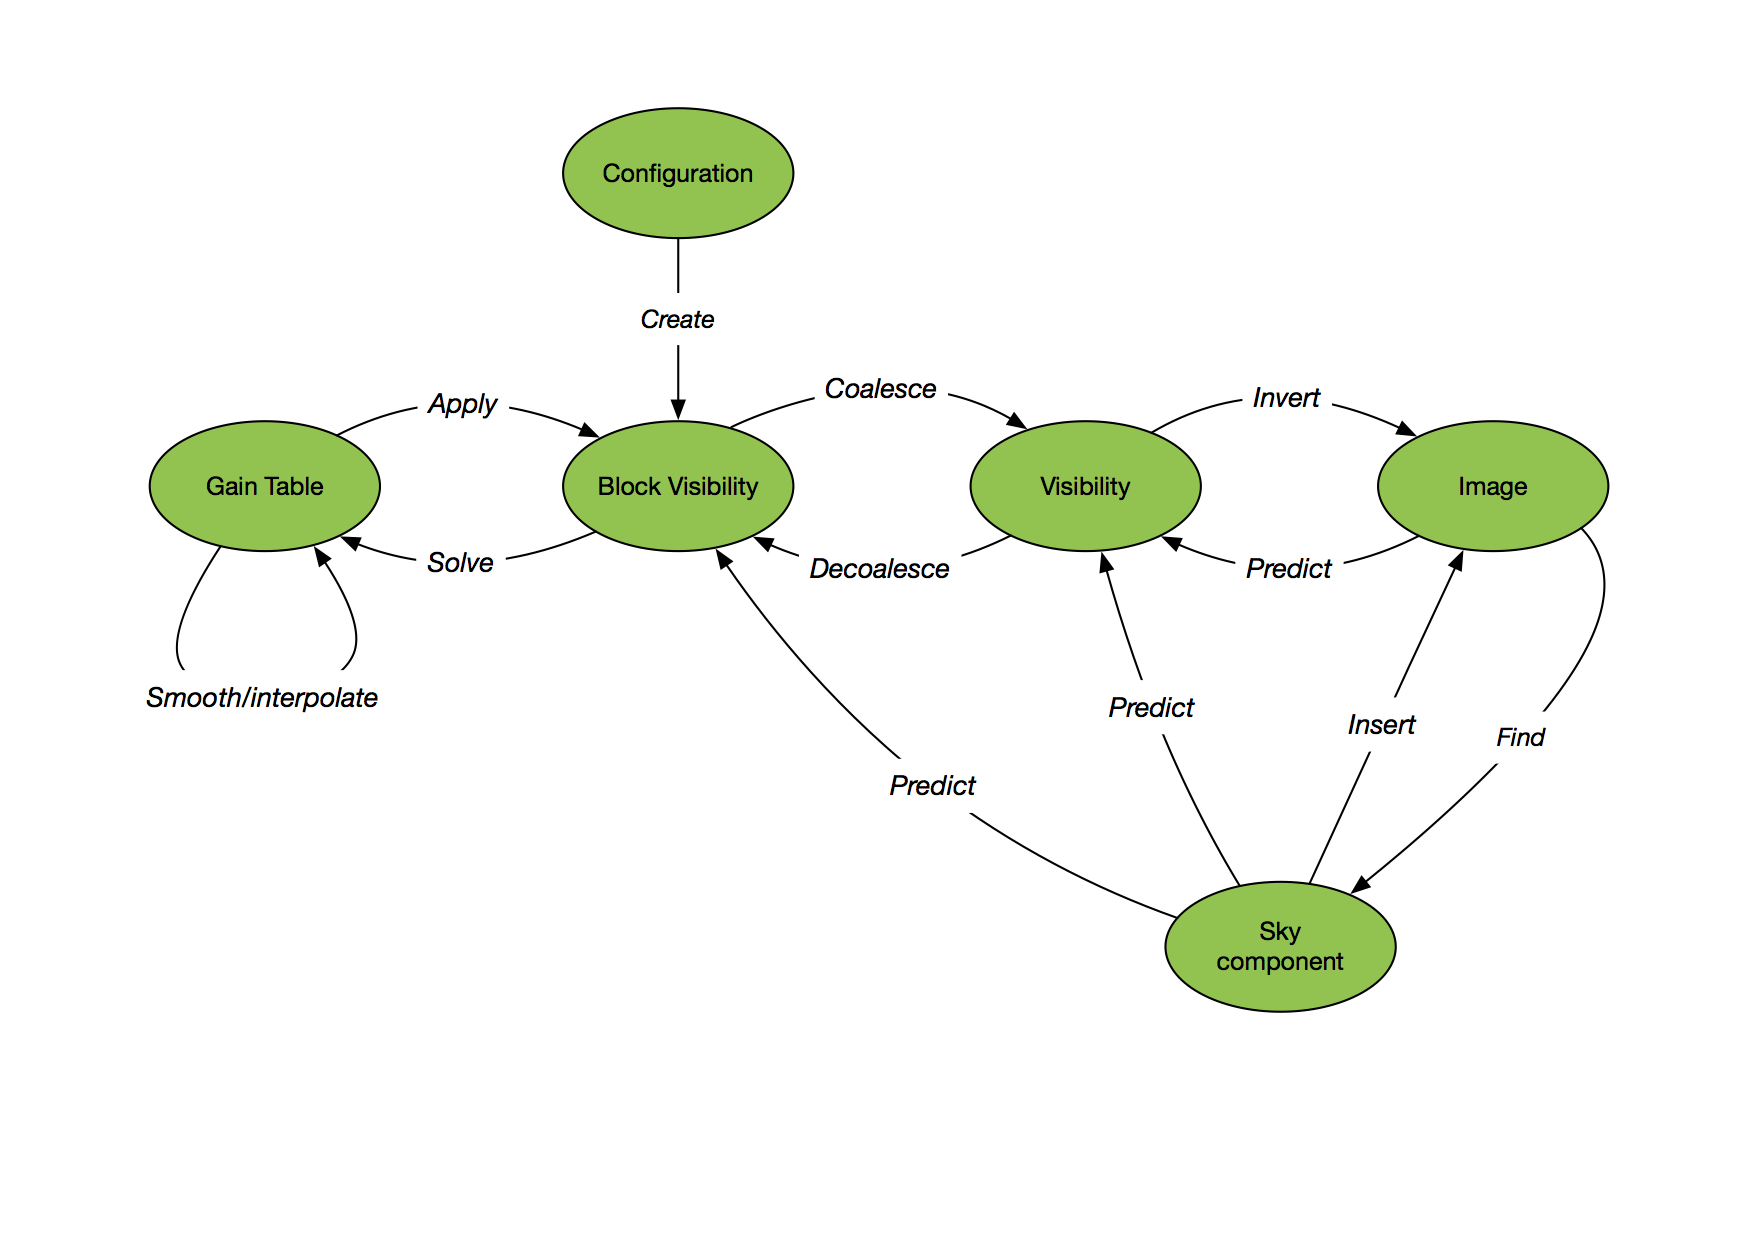
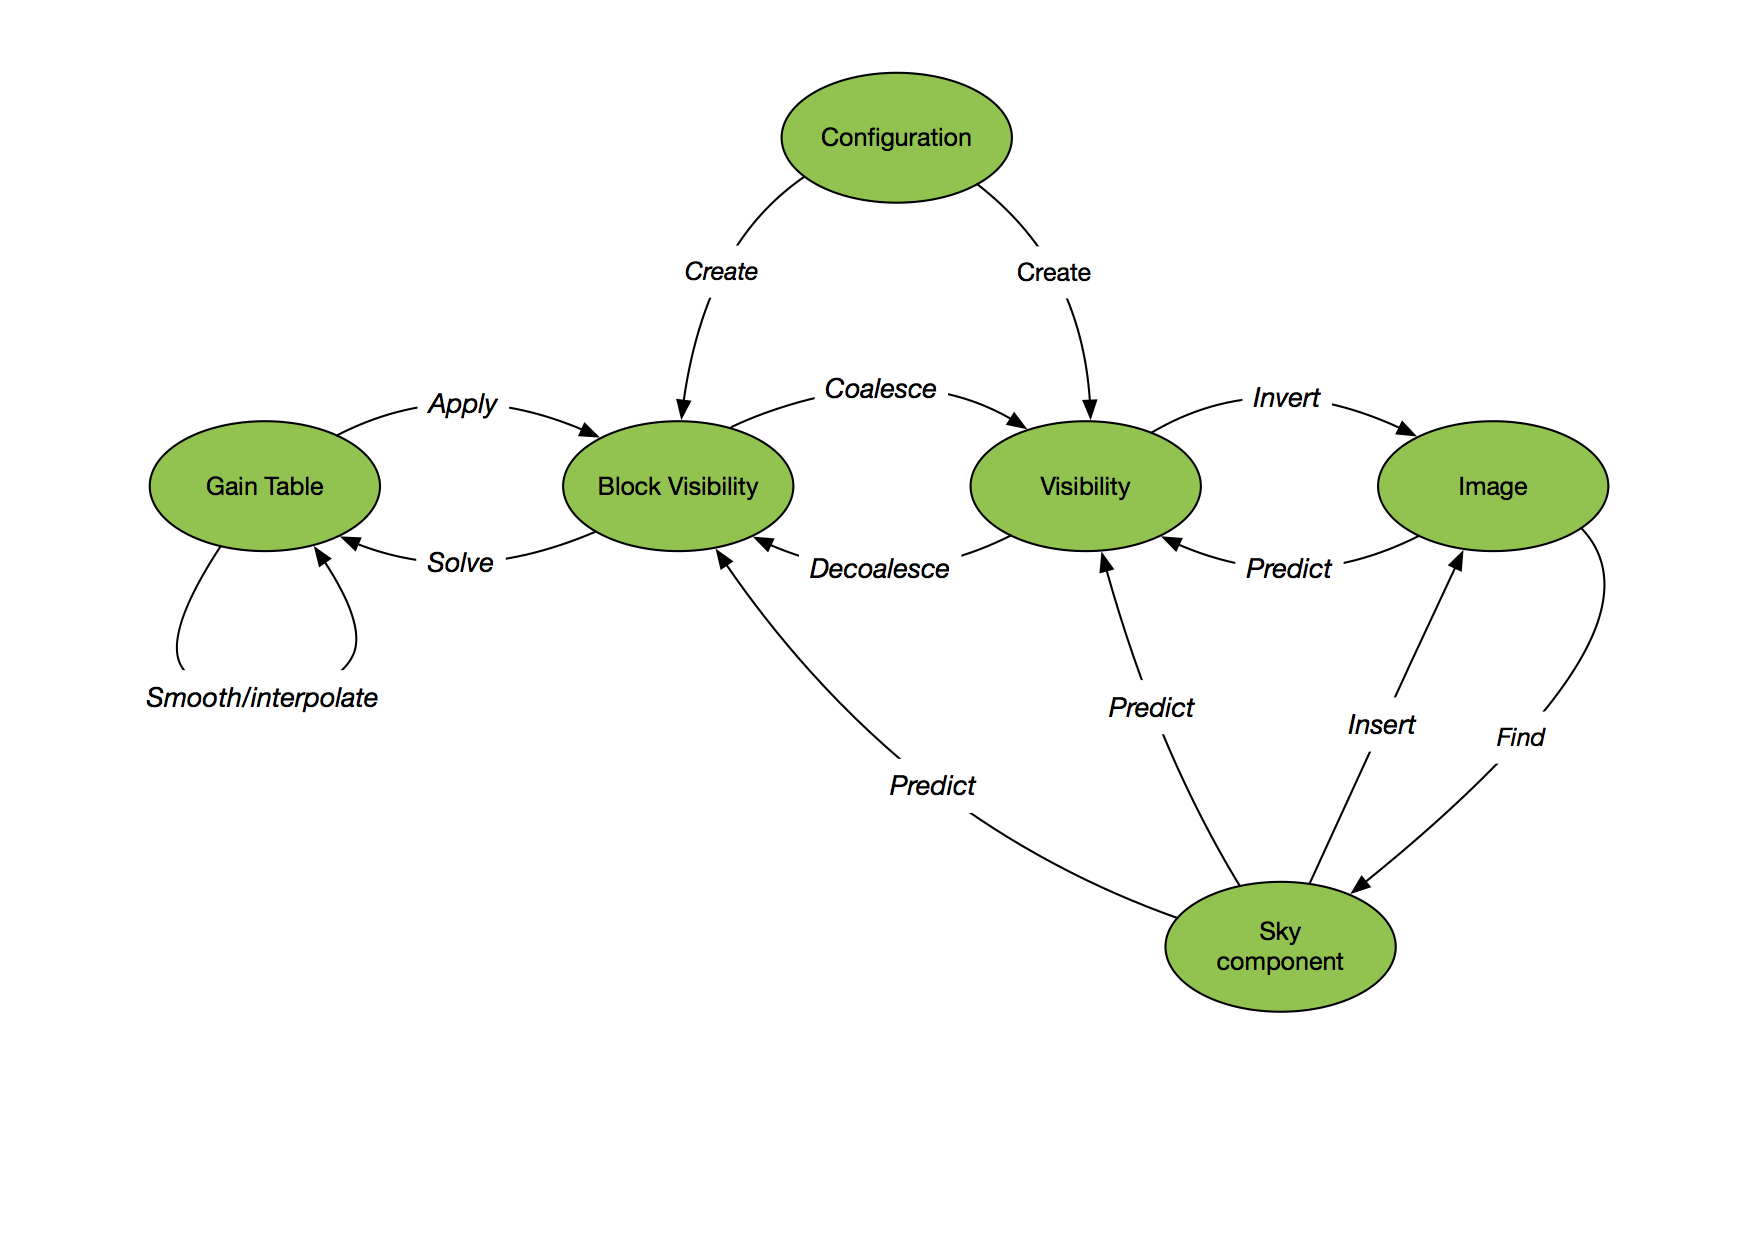
create_blockvisibility_iterator
Signature changed to align with other creates

diff --git a/tests/test_testing_support.py b/tests/test_testing_support.py
@@ -70,8 +70,8 @@ class TestTesting_Support(unittest.TestCase):
 
     def test_create_low_test_image_from_gleam(self):
         im = create_low_test_image_from_gleam(npixel=256, cellsize=0.001,
-                                              channel_bandwidth=numpy.array([1e6, 1e6, 1e6]),
-                                              frequency=numpy.array([1e8 - 1e6, 1e8, 1e8 + 1e6]),
+                                              channel_bandwidth=self.channel_bandwidth,
+                                              frequency=self.frequency,
                                               phasecentre=self.phasecentre, kind='cubic')
         assert im.data.shape[0] == 3
         assert im.data.shape[1] == 1
@@ -81,11 +81,11 @@ class TestTesting_Support(unittest.TestCase):
 
 
     def test_create_low_test_skycomponents_from_gleam(self):
-        sc = create_low_test_skycomponents_from_gleam(frequency=numpy.array([1e8 - 1e6, 1e8, 1e8 + 1e6]),
+        sc = create_low_test_skycomponents_from_gleam(frequency=self.frequency,
                                                       flux_limit=10.0, kind='cubic')
         assert len(sc) > 1
         assert sc[190].name == 'GLEAM J172031-005845'
-        self.assertAlmostEqual(sc[190].flux[0,0], 304.1335144, 7)
+        self.assertAlmostEqual(sc[190].flux[0,0], 301.4964434927922, 7)
     
     def test_create_low_test_image(self):
             im = create_low_test_image(npixel=1024, channel_bandwidth=numpy.array([1e6]),
@@ -140,8 +140,9 @@ class TestTesting_Support(unittest.TestCase):
     
     def test_create_vis_iter(self):
         vis_iter = create_blockvisibility_iterator(self.config, self.times, self.frequency,
-                                                   phasecentre=self.phasecentre, weight=1.0,
-                                                   polarisation_frame=Polarisation_Frame('stokesI'),
+                                                   channel_bandwidth=self.channel_bandwidth,
+                                                   phasecentre=self.phasecentre,
+                                                   weight=1.0, polarisation_frame=Polarisation_Frame('stokesI'),
                                                    integration_time=30.0, number_integrations=3)
         
         fullvis = None
@@ -163,6 +164,7 @@ class TestTesting_Support(unittest.TestCase):
         comp = Skycomponent(direction=self.phasecentre, frequency=self.frequency, flux=self.flux,
                             polarisation_frame=Polarisation_Frame('stokesI'))
         vis_iter = create_blockvisibility_iterator(self.config, self.times, self.frequency,
+                                                   channel_bandwidth=self.channel_bandwidth,
                                                    phasecentre=self.phasecentre, weight=1.0,
                                                    polarisation_frame=Polarisation_Frame('stokesI'),
                                                    integration_time=30.0, number_integrations=3, model=model,

diff --git a/tests/test_coalesce.py b/tests/test_coalesce.py
@@ -19,8 +19,11 @@ class TestCoalesce(unittest.TestCase):
         self.lowcore = create_named_configuration('LOWBD2-CORE')
         self.times = (numpy.pi / 43200.0) * numpy.arange(0.0, 300.0, 30.0)
         self.frequency = numpy.linspace(1.0e8, 1.1e8, 5)
+        self.channel_bandwidth = numpy.array([1e7,1e7,1e7,1e7,1e7])
         self.phasecentre = SkyCoord(ra=+180.0 * u.deg, dec=-60.0 * u.deg, frame='icrs', equinox=2000.0)
-        self.vis = create_visibility(self.lowcore, self.times, self.frequency, phasecentre=self.phasecentre, weight=1.0)
+        self.vis = create_visibility(self.lowcore, self.times, self.frequency,
+                                     channel_bandwidth=self.channel_bandwidth,
+                                     phasecentre=self.phasecentre, weight=1.0)
         # Fill in the vis values so each can be uniquely identified
         self.vis.data['vis'] = range(self.vis.nvis)
  
@@ -35,7 +38,9 @@ class TestCoalesce(unittest.TestCase):
 
     def test_coalesce_decoalesce_singletime(self):
         self.times = numpy.array([0.0])
-        self.vis = create_visibility(self.lowcore, self.times, self.frequency, phasecentre=self.phasecentre, weight=1.0)
+        self.vis = create_visibility(self.lowcore, self.times, self.frequency,
+                                     channel_bandwidth=self.channel_bandwidth,
+                                     phasecentre=self.phasecentre, weight=1.0)
         # Fill in the vis values so each can be uniquely identified
         self.vis.data['vis'] = range(self.vis.nvis)
         cvis, cindex = coalesce_visibility(self.vis, coalescence_factor=1.0)

diff --git a/tests/test_pipelines.py b/tests/test_pipelines.py
@@ -29,11 +29,11 @@ class TestPipelines(unittest.TestCase):
         self.comp = create_skycomponent(flux=self.flux, frequency=frequency, direction=self.compabsdirection)
         self.image = create_test_image(frequency=frequency, phasecentre=self.phasecentre, cellsize=0.001)
         
-        self.vis = create_blockvisibility_iterator(lowcore, times=times, freq=frequency, phasecentre=self.phasecentre,
-                                                   weight=1, polarisation_frame=Polarisation_Frame('stokesIQUV'),
-                                                   integration_time=1.0, number_integrations=1, channel_bandwidth=1e6,
-                                                   predict=predict_2d, components=self.comp, phase_error=0.1,
-                                                   amplitude_error=0.01)
+        self.vis = create_blockvisibility_iterator(lowcore, times=times, frequency=frequency, channel_bandwidth=1e6,
+                                                   phasecentre=self.phasecentre, weight=1,
+                                                   polarisation_frame=Polarisation_Frame('stokesIQUV'),
+                                                   integration_time=1.0, number_integrations=1, predict=predict_2d,
+                                                   components=self.comp, phase_error=0.1, amplitude_error=0.01)
     
     def test_RCAL(self):
         for igt, gt in enumerate(RCAL(vis=self.vis, components=self.comp)):

diff --git a/docs/ARL_quickstart.rst b/docs/ARL_quickstart.rst
@@ -41,4 +41,4 @@ See the jupyter note books below:
    arl/RCAL
 
 In addition, there are other notebooks in examples/arl that are not built as part of this documentation. See e.g.
-examples/arl/imaging-low.ipynb, examples/arl/imaging-compress
+examples/arl/imaging-low.ipynb, examples/arl/imaging-coalesce
